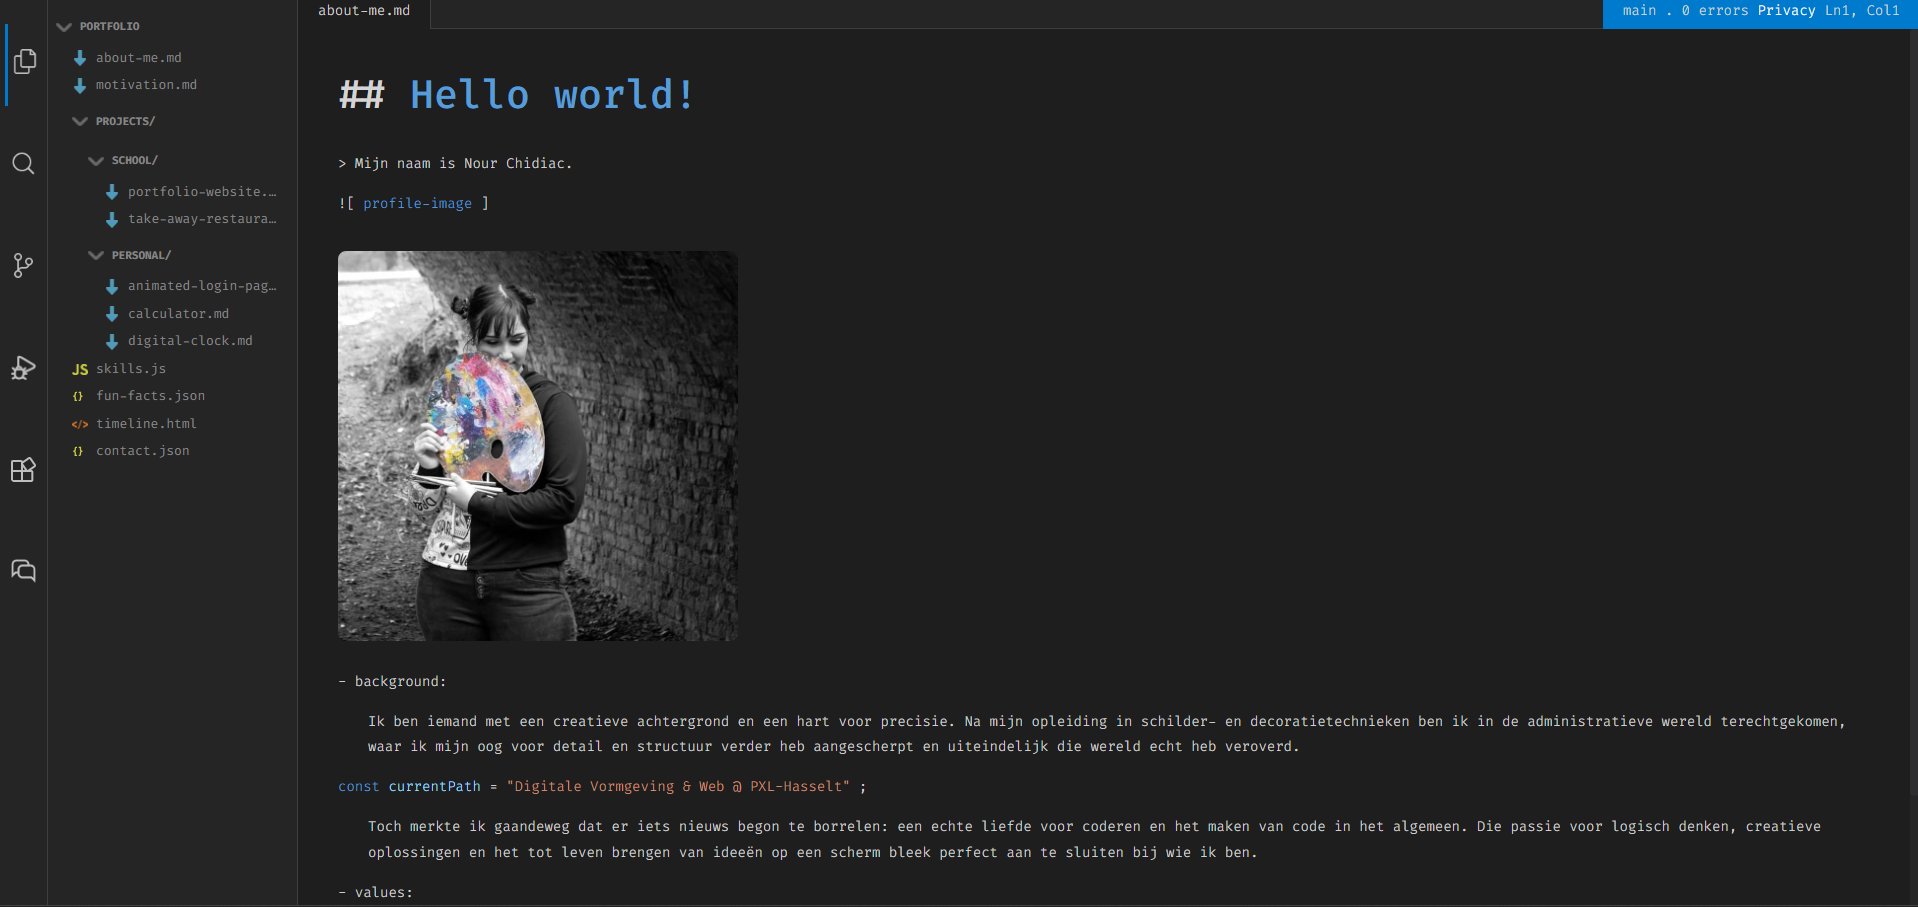
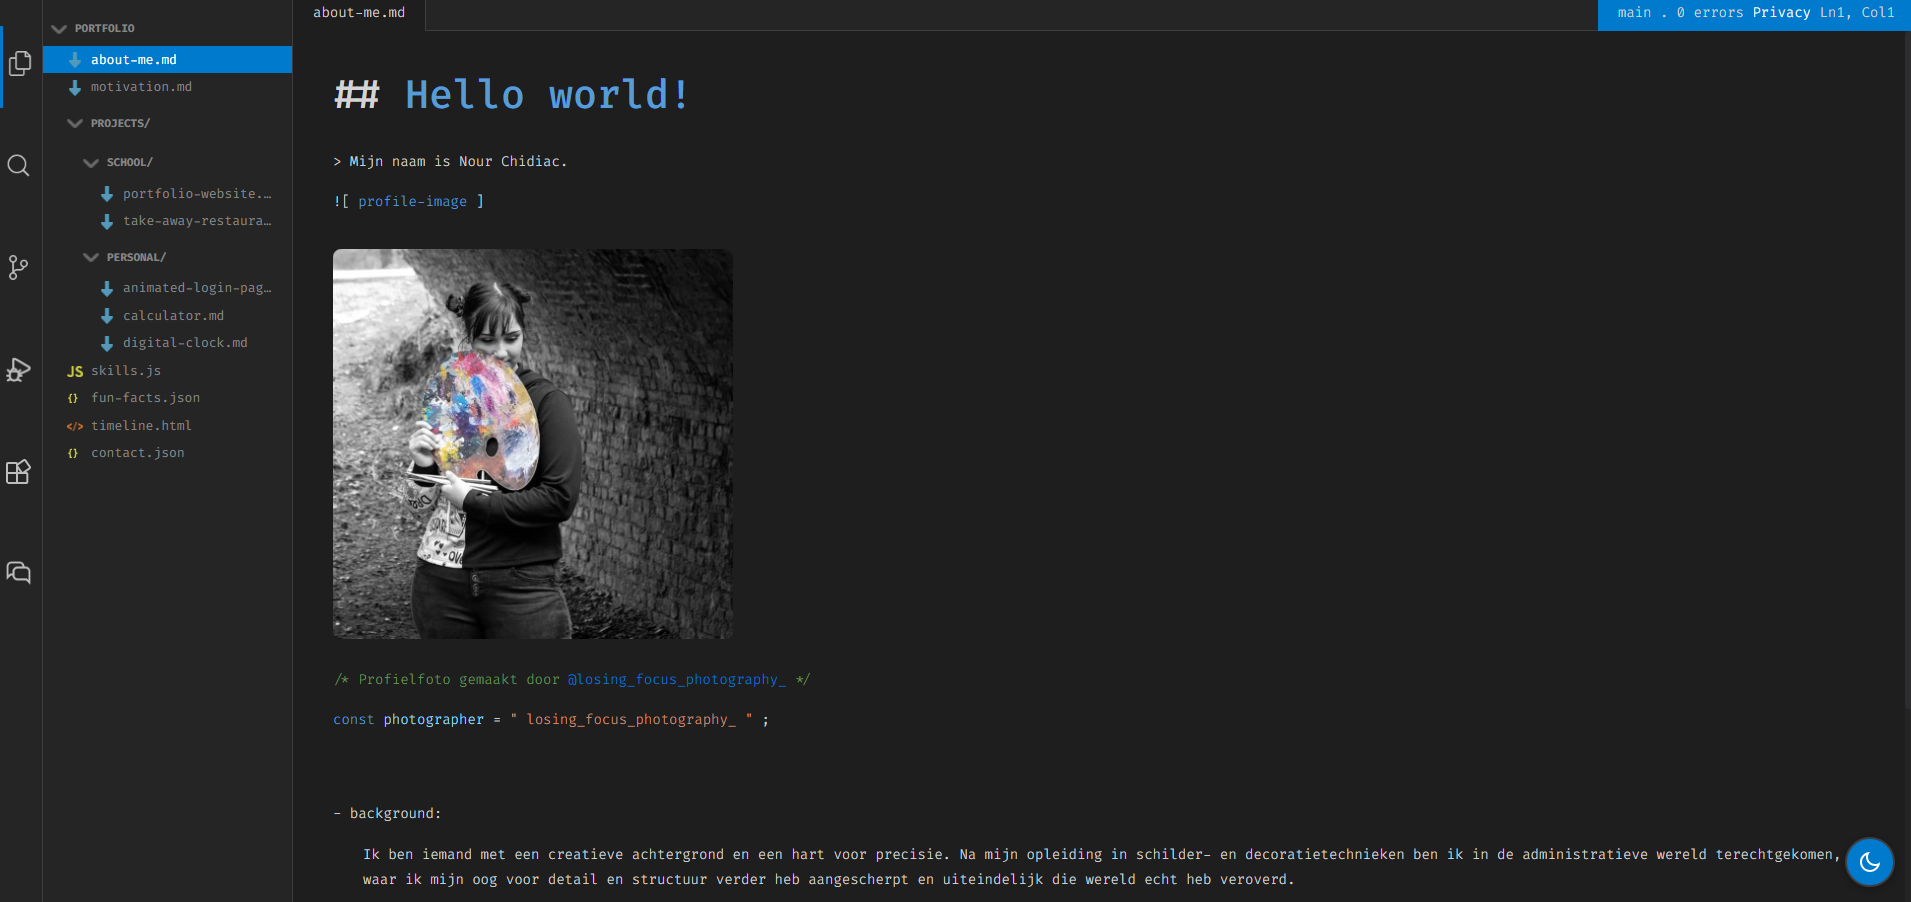
readme.md + updated imgae for portfolio website page

diff --git a/README.md b/README.md
@@ -1,0 +1,58 @@
+# VS Code Style Portfolio - Nour Chidiac
+
+Dit is mijn persoonlijke portfolio, ontworpen met de look-and-feel van de **Visual Studio Code** editor. Het project is gebouwd als onderdeel van mijn opleiding aan PXL-Hasselt en toont mijn vaardigheden in front-end development door middel van een interactieve interface.
+
+## Features
+
+-   **VS Code Esthetiek:** Volledige editor-ervaring inclusief sidebar, tabs, statusbar en regelnummers.
+-   **Steel Grey Light Mode:** Een industrieel, hoog-contrast thema voor optimale leesbaarheid.
+-   **Responsive Design:** Geoptimaliseerd voor desktop en mobiel (met hamburger-menu).
+-   **Interactieve UI:** Thema-switcher (Light/Dark) en automatische actieve pagina-detectie.
+
+## Bronvermelding & Credits
+
+### Fotografie & Afbeeldingen
+
+-   **Hero Image:** Persoonlijke foto op de 'About Me' pagina.
+-   _Credit:_ Instagram [**@losing*focus_photography***](https://www.instagram.com/losing_focus_photography_) (mijn nichtje).
+-   **Project Screenshots:** Alle afbeeldingen in de project-secties zijn eigen screenshots van applicaties die ik zelf heb ontwikkeld.
+-   **Stockfoto's:** Overige rechtenvrije beelden zijn afkomstig van [**Pexels**](https://www.pexels.com/).
+
+### Ontwikkeling & Support
+
+-   **AI Assistance:** Voor specifieke styling issues (zoals het verfijnen van het Steel Grey palet) en complexe bugfixes in de navigatie-logica is gebruik gemaakt van **Grok AI** en **Claude AI**.
+
+## Projectstructuur
+
+Hieronder de complete lijst van alle bestanden in dit project, gesorteerd op functie:
+
+### Core Informatie
+
+1.  `index.html` - De startpagina: **about-me.md** (Persoonlijke introductie).
+2.  `portfolio.html` - Reflectie over **Werkplekleren 1** (Portfolio.md).
+3.  `motivation.html` - Mijn drijfveer voor de opleiding DVO (**Motivation.md**).
+4.  `skills.html` - Overzicht van mijn technische vaardigheden en tools.
+5.  `timeline.html` - Mijn professionele en educatieve tijdlijn.
+
+### Projecten & Realisaties
+
+6.  `portfolio-website.html` - Documentatie over de bouw van deze website zelf.
+7.  `calculator.html` - Een interactieve JavaScript Calculator.
+8.  `digital-clock.html` - Een real-time Digitale Klok widget.
+9.  `animated-login-page.html` - Een moderne, geanimeerde login interface.
+10. `takeaway-restaurant.html` - Project over een online bestelsysteem voor restaurants.
+
+### Data & Juridisch
+
+11. `contact.html` - Mijn gegevens in een interactieve **contact.json** weergave.
+12. `fun-facts.html` - Persoonlijke weetjes gepresenteerd als **fun-facts.json**.
+13. `privacy.html` - De privacyverklaring (bereikbaar via de statusbar).
+
+### Assets & Logica
+
+14. `index.css` - Het centrale stylesheet met alle thema-variabelen en styling.
+15. `menu.js` - De JavaScript-logica voor navigatie, thema's en interactiviteit.
+
+---
+
+_Ontwikkeld door Nour Chidiac - 2025 - 2026_
